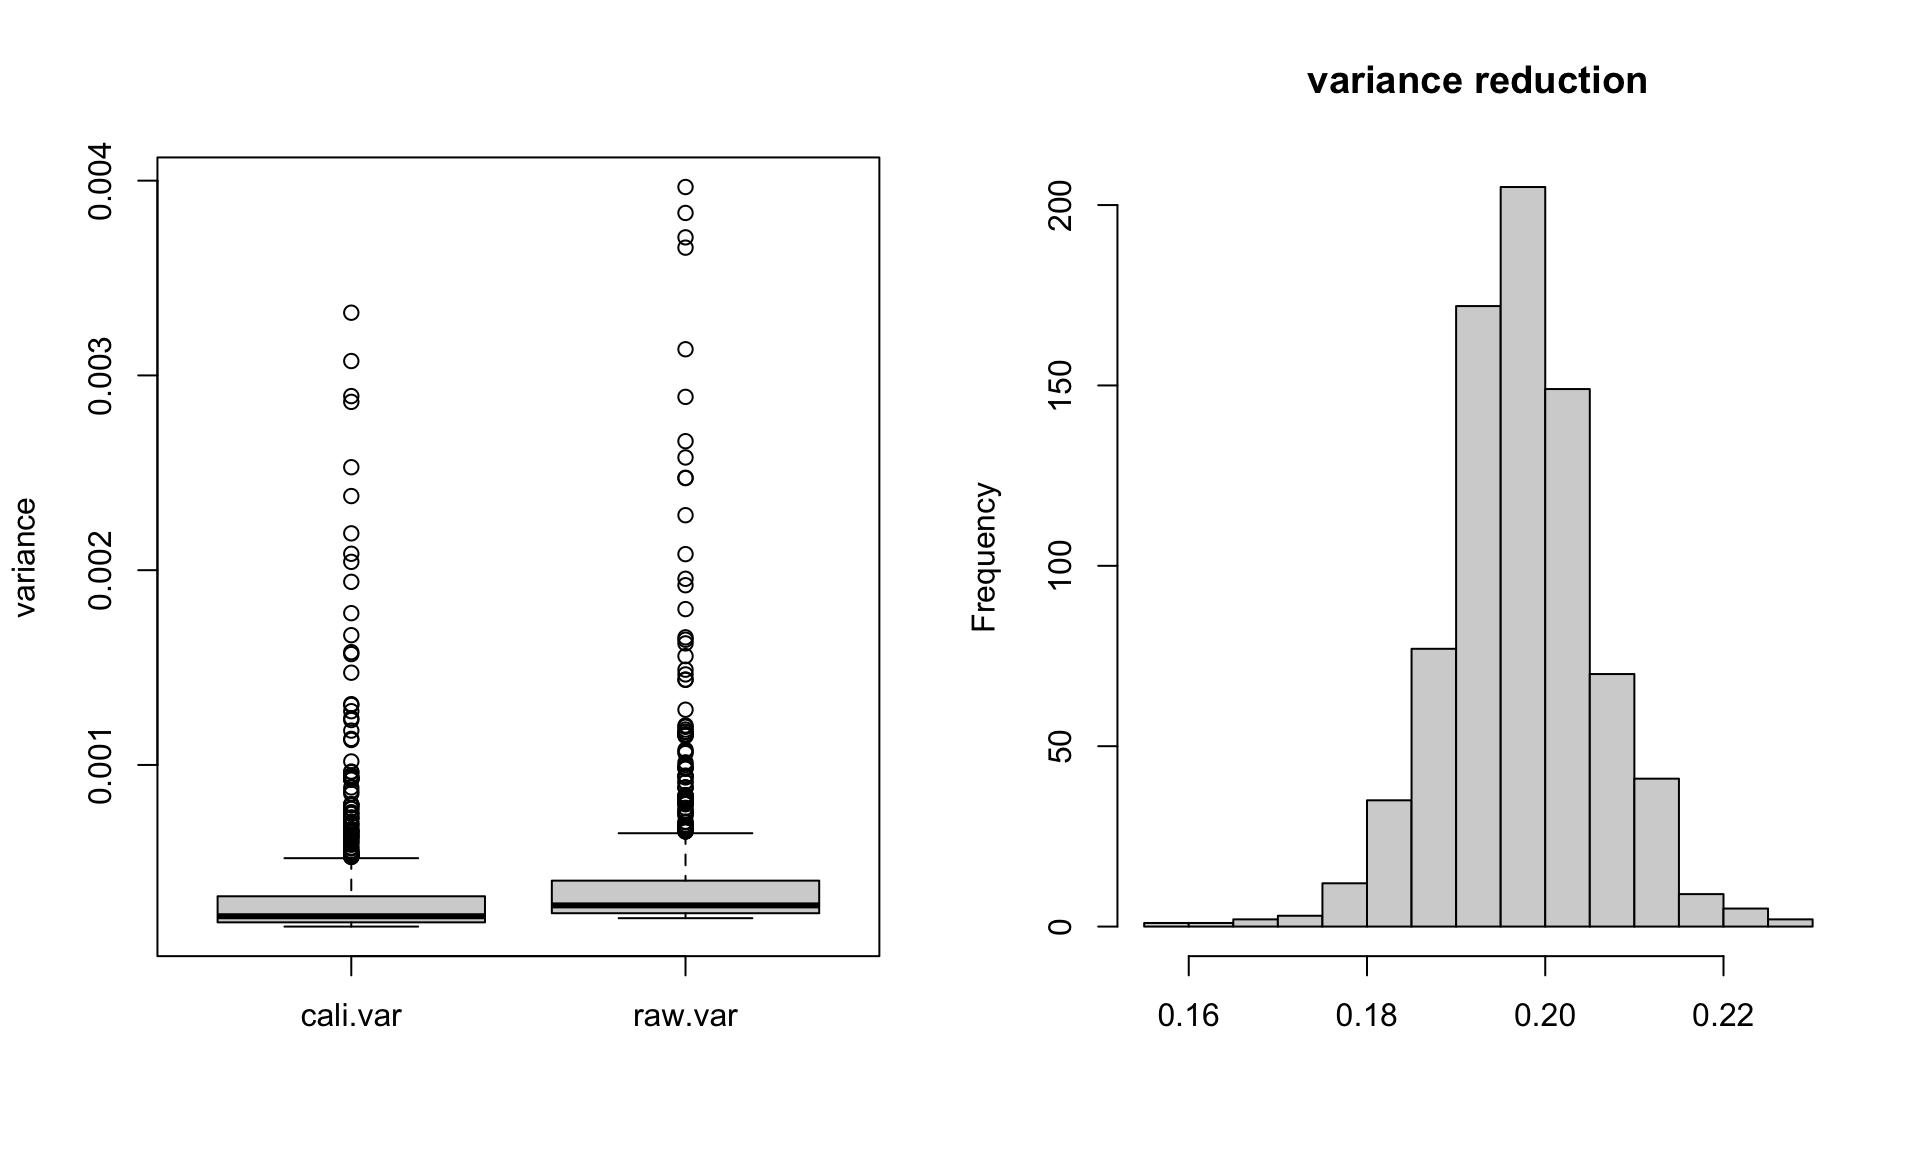
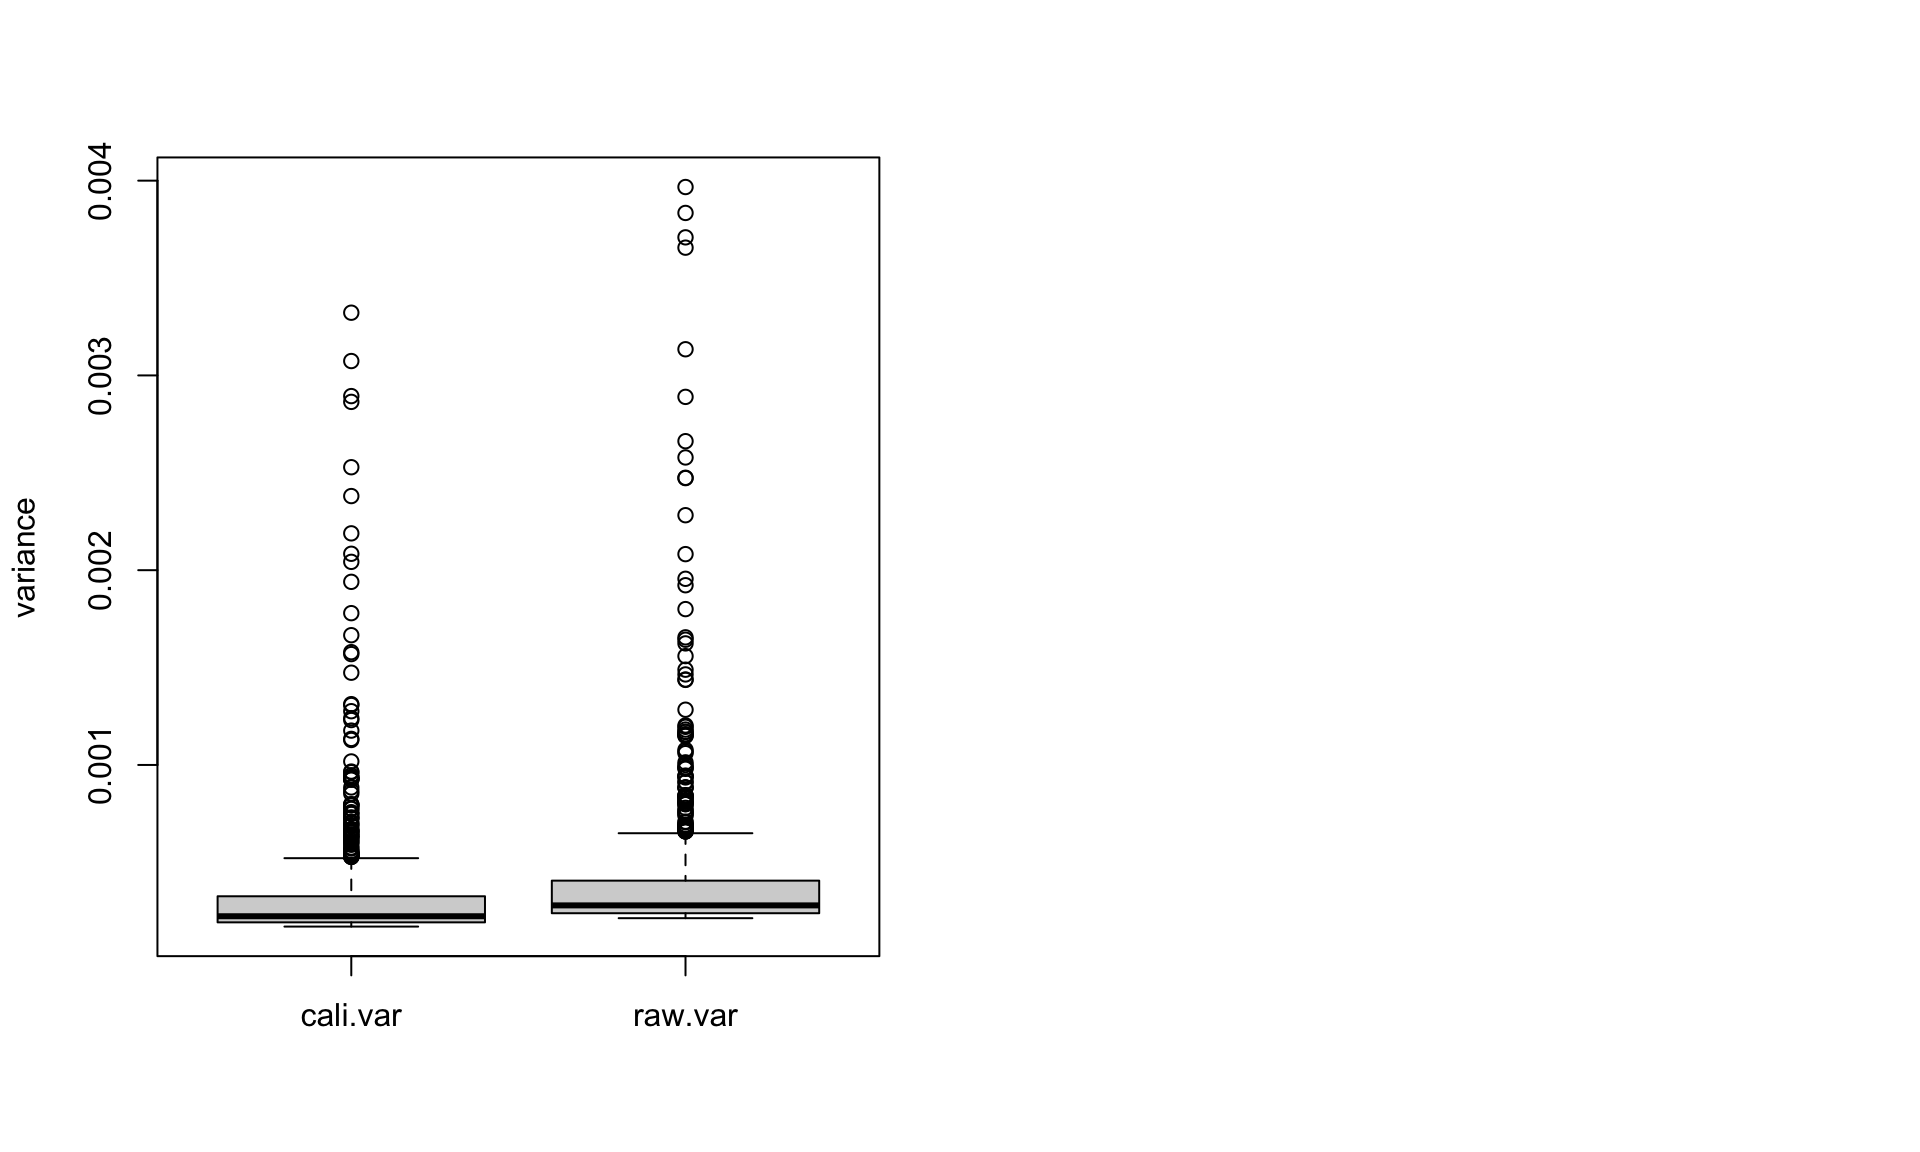
Build site.

diff --git a/docs/ukb_trait_calibration_sib.html b/docs/ukb_trait_calibration_sib.html
@@ -384,7 +384,7 @@ div.tocify {
 <div class="tab-content">
 <div id="summary" class="tab-pane fade in active">
 <p>
-<strong>Last updated:</strong> 2024-05-12
+<strong>Last updated:</strong> 2024-05-13
 </p>
 <p>
 <strong>Checks:</strong> <span class="glyphicon glyphicon-ok text-success" aria-hidden="true"></span> 7 <span class="glyphicon glyphicon-exclamation-sign text-danger" aria-hidden="true"></span> 0
@@ -475,16 +475,16 @@ This reproducible <a href="http://rmarkdown.rstudio.com">R Markdown</a> analysis
 <div class="panel panel-default">
 <div class="panel-heading">
 <p class="panel-title">
-<a data-toggle="collapse" data-parent="#workflowr-checks" href="#strongRepositoryversionstrongahrefhttpsgithubcomyunqiyang0215simulationcalibratedmrtree2a7061470f6a00c66abf73353441e1e2340f4411targetblank2a70614a"> <span class="glyphicon glyphicon-ok text-success" aria-hidden="true"></span> <strong>Repository version:</strong> <a href="https://github.com/yunqiyang0215/simulation-calibrated-mr/tree/2a7061470f6a00c66abf73353441e1e2340f4411" target="_blank">2a70614</a> </a>
+<a data-toggle="collapse" data-parent="#workflowr-checks" href="#strongRepositoryversionstrongahrefhttpsgithubcomyunqiyang0215simulationcalibratedmrtree8581ebae091ebfb218a159ac72eaa2dbd3bc3c6atargetblank8581ebaa"> <span class="glyphicon glyphicon-ok text-success" aria-hidden="true"></span> <strong>Repository version:</strong> <a href="https://github.com/yunqiyang0215/simulation-calibrated-mr/tree/8581ebae091ebfb218a159ac72eaa2dbd3bc3c6a" target="_blank">8581eba</a> </a>
 </p>
 </div>
[2 lines of base64/hex data omitted]
 <div class="panel-body">
 <p>
 Great! You are using Git for version control. Tracking code development and connecting the code version to the results is critical for reproducibility.
 </p>
 <p>
-The results in this page were generated with repository version <a href="https://github.com/yunqiyang0215/simulation-calibrated-mr/tree/2a7061470f6a00c66abf73353441e1e2340f4411" target="_blank">2a70614</a>. See the <em>Past versions</em> tab to see a history of the changes made to the R Markdown and HTML files.
+The results in this page were generated with repository version <a href="https://github.com/yunqiyang0215/simulation-calibrated-mr/tree/8581ebae091ebfb218a159ac72eaa2dbd3bc3c6a" target="_blank">8581eba</a>. See the <em>Past versions</em> tab to see a history of the changes made to the R Markdown and HTML files.
 </p>
 <p>
 Note that you need to be careful to ensure that all relevant files for the analysis have been committed to Git prior to generating the results (you can use <code>wflow_publish</code> or <code>wflow_git_commit</code>). workflowr only checks the R Markdown file, but you know if there are other scripts or data files that it depends on. Below is the status of the Git repository when the results were generated:
@@ -538,6 +538,40 @@ Message
 </tr>
 </thead>
 <tbody>
+<tr>
+<td>
+Rmd
+</td>
+<td>
+<a href="https://github.com/yunqiyang0215/simulation-calibrated-mr/blob/8581ebae091ebfb218a159ac72eaa2dbd3bc3c6a/analysis/ukb_trait_calibration_sib.Rmd" target="_blank">8581eba</a>
+</td>
+<td>
+yunqiyang0215
+</td>
+<td>
+2024-05-13
+</td>
+<td>
+wflow_publish("analysis/ukb_trait_calibration_sib.Rmd")
+</td>
+</tr>
+<tr>
+<td>
+html
+</td>
+<td>
+<a href="https://rawcdn.githack.com/yunqiyang0215/simulation-calibrated-mr/74f43038d502e928f3ff52fc114d2c3f77a3dc00/docs/ukb_trait_calibration_sib.html" target="_blank">74f4303</a>
+</td>
+<td>
+yunqiyang0215
+</td>
+<td>
+2024-05-12
+</td>
+<td>
+Build site.
+</td>
+</tr>
 <tr>
 <td>
 Rmd
@@ -640,6 +674,17 @@ Date
 <tbody>
 <tr>
 <td>
+<a href="https://github.com/yunqiyang0215/simulation-calibrated-mr/blob/74f43038d502e928f3ff52fc114d2c3f77a3dc00/docs/figure/ukb_trait_calibration_sib.Rmd/unnamed-chunk-3-1.png" target="_blank">74f4303</a>
+</td>
+<td>
+yunqiyang0215
+</td>
+<td>
+2024-05-12
+</td>
+</tr>
+<tr>
+<td>
 <a href="https://github.com/yunqiyang0215/simulation-calibrated-mr/blob/3443aedf481ba00a06c87fa4deeacce82b7f12f0/docs/figure/ukb_trait_calibration_sib.Rmd/unnamed-chunk-3-1.png" target="_blank">3443aed</a>
 </td>
 <td>
@@ -667,8 +712,48 @@ sum(pval.ext &lt; 1e-8)</code></pre>
 <h4>Calibration result</h4>
 <pre class="r"><code>par(mfrow = c(1, 2))
 boxplot(dat[, c(&quot;cali.var&quot;, &quot;raw.var&quot;)], ylab = &quot;variance&quot;)
-hist((dat$raw.var - dat$cali.var)/dat$raw.var, main = &quot;variance reduction&quot;, xlab = &quot;&quot;)</code></pre>
+vr = (dat$raw.var - dat$cali.var)/dat$raw.var
+mean(vr)</code></pre>
+<pre><code>[1] 0.1572405</code></pre>
+<pre class="r"><code>hist(vr, main = &quot;variance reduction&quot;, xlab = &quot;&quot;)</code></pre>
 <p><img src="figure/ukb_trait_calibration_sib.Rmd/unnamed-chunk-5-1.png" width="960" style="display: block; margin: auto;" /></p>
+<p>
+<button type="button" class="btn btn-default btn-xs btn-workflowr btn-workflowr-fig" data-toggle="collapse" data-target="#fig-unnamed-chunk-5-1">
+Past versions of unnamed-chunk-5-1.png
+</button>
+</p>
+<div id="fig-unnamed-chunk-5-1" class="collapse">
+<div class="table-responsive">
+<table class="table table-condensed table-hover">
+<thead>
+<tr>
+<th>
+Version
+</th>
+<th>
+Author
+</th>
+<th>
+Date
+</th>
+</tr>
+</thead>
+<tbody>
+<tr>
+<td>
+<a href="https://github.com/yunqiyang0215/simulation-calibrated-mr/blob/74f43038d502e928f3ff52fc114d2c3f77a3dc00/docs/figure/ukb_trait_calibration_sib.Rmd/unnamed-chunk-5-1.png" target="_blank">74f4303</a>
+</td>
+<td>
+yunqiyang0215
+</td>
+<td>
+2024-05-12
+</td>
+</tr>
+</tbody>
+</table>
+</div>
+</div>
 </div>
 </div>
 <div id="dbp" class="section level3">
@@ -691,6 +776,43 @@ abline(a = 0, b = 1, col = &quot;red&quot;)
 hist(dat$cali - dat$raw, main = &quot;Differece: calibrated estimator - uncalibrated estimator&quot;, xlab = &quot;&quot;)
 hist(dat$int - dat$BETA, main = &quot;Difference: internal gwas - external gwas&quot;, xlab = &quot;&quot;)</code></pre>
 <p><img src="figure/ukb_trait_calibration_sib.Rmd/unnamed-chunk-8-1.png" width="768" style="display: block; margin: auto;" /></p>
+<p>
+<button type="button" class="btn btn-default btn-xs btn-workflowr btn-workflowr-fig" data-toggle="collapse" data-target="#fig-unnamed-chunk-8-1">
+Past versions of unnamed-chunk-8-1.png
+</button>
+</p>
+<div id="fig-unnamed-chunk-8-1" class="collapse">
+<div class="table-responsive">
+<table class="table table-condensed table-hover">
+<thead>
+<tr>
+<th>
+Version
+</th>
+<th>
+Author
+</th>
+<th>
+Date
+</th>
+</tr>
+</thead>
+<tbody>
+<tr>
+<td>
+<a href="https://github.com/yunqiyang0215/simulation-calibrated-mr/blob/74f43038d502e928f3ff52fc114d2c3f77a3dc00/docs/figure/ukb_trait_calibration_sib.Rmd/unnamed-chunk-8-1.png" target="_blank">74f4303</a>
+</td>
+<td>
+yunqiyang0215
+</td>
+<td>
+2024-05-12
+</td>
+</tr>
+</tbody>
+</table>
+</div>
+</div>
 <pre class="r"><code>cor(dat$cali, dat$raw)</code></pre>
 <pre><code>[1] 0.8713467</code></pre>
 <pre class="r"><code>cor(dat$BETA, dat$int)</code></pre>
@@ -709,7 +831,9 @@ sum(pval.ext &lt; 1e-8)</code></pre>
 <h4>Calibration result</h4>
 <pre class="r"><code>par(mfrow = c(1, 2))
 boxplot(dat[, c(&quot;cali.var&quot;, &quot;raw.var&quot;)], ylab = &quot;variance&quot;)
-hist((dat$raw.var - dat$cali.var)/dat$raw.var, main = &quot;variance reduction&quot;, xlab = &quot;&quot;)</code></pre>
+vr = (dat$raw.var - dat$cali.var)/dat$raw.var
+mean(vr)</code></pre>
+<pre><code>[1] 0.1973165</code></pre>
 <p><img src="figure/ukb_trait_calibration_sib.Rmd/unnamed-chunk-10-1.png" width="960" style="display: block; margin: auto;" /></p>
 <p>
 <button type="button" class="btn btn-default btn-xs btn-workflowr btn-workflowr-fig" data-toggle="collapse" data-target="#fig-unnamed-chunk-10-1">
@@ -733,6 +857,17 @@ Date
 </tr>
 </thead>
 <tbody>
+<tr>
+<td>
+<a href="https://github.com/yunqiyang0215/simulation-calibrated-mr/blob/74f43038d502e928f3ff52fc114d2c3f77a3dc00/docs/figure/ukb_trait_calibration_sib.Rmd/unnamed-chunk-10-1.png" target="_blank">74f4303</a>
+</td>
+<td>
+yunqiyang0215
+</td>
+<td>
+2024-05-12
+</td>
+</tr>
 <tr>
 <td>
 <a href="https://github.com/yunqiyang0215/simulation-calibrated-mr/blob/3443aedf481ba00a06c87fa4deeacce82b7f12f0/docs/figure/ukb_trait_calibration_sib.Rmd/unnamed-chunk-10-1.png" target="_blank">3443aed</a>
@@ -770,6 +905,43 @@ abline(a = 0, b = 1, col = &quot;red&quot;)
 hist(dat$cali - dat$raw, main = &quot;Differece: calibrated estimator - uncalibrated estimator&quot;, xlab = &quot;&quot;)
 hist(dat$int - dat$BETA, main = &quot;Difference: internal gwas - external gwas&quot;, xlab = &quot;&quot;)</code></pre>
 <p><img src="figure/ukb_trait_calibration_sib.Rmd/unnamed-chunk-13-1.png" width="768" style="display: block; margin: auto;" /></p>
+<p>
+<button type="button" class="btn btn-default btn-xs btn-workflowr btn-workflowr-fig" data-toggle="collapse" data-target="#fig-unnamed-chunk-13-1">
+Past versions of unnamed-chunk-13-1.png
+</button>
+</p>
+<div id="fig-unnamed-chunk-13-1" class="collapse">
+<div class="table-responsive">
+<table class="table table-condensed table-hover">
+<thead>
+<tr>
+<th>
+Version
+</th>
+<th>
+Author
+</th>
+<th>
+Date
+</th>
+</tr>
+</thead>
+<tbody>
+<tr>
+<td>
+<a href="https://github.com/yunqiyang0215/simulation-calibrated-mr/blob/74f43038d502e928f3ff52fc114d2c3f77a3dc00/docs/figure/ukb_trait_calibration_sib.Rmd/unnamed-chunk-13-1.png" target="_blank">74f4303</a>
+</td>
+<td>
+yunqiyang0215
+</td>
+<td>
+2024-05-12
+</td>
+</tr>
+</tbody>
+</table>
+</div>
+</div>
 <pre class="r"><code>cor(dat$cali, dat$raw)</code></pre>
 <pre><code>[1] 0.8927765</code></pre>
 <pre class="r"><code>cor(dat$BETA, dat$int)</code></pre>
@@ -788,8 +960,47 @@ sum(pval.ext &lt; 1e-8)</code></pre>
 <h4>Calibration result</h4>
 <pre class="r"><code>par(mfrow = c(1, 2))
 boxplot(dat[, c(&quot;cali.var&quot;, &quot;raw.var&quot;)], ylab = &quot;variance&quot;)
-hist((dat$raw.var - dat$cali.var)/dat$raw.var, main = &quot;variance reduction&quot;, xlab = &quot;&quot;)</code></pre>
+vr = (dat$raw.var - dat$cali.var)/dat$raw.var
+mean(vr)</code></pre>
+<pre><code>[1] 0.1946911</code></pre>
 <p><img src="figure/ukb_trait_calibration_sib.Rmd/unnamed-chunk-15-1.png" width="960" style="display: block; margin: auto;" /></p>
+<p>
+<button type="button" class="btn btn-default btn-xs btn-workflowr btn-workflowr-fig" data-toggle="collapse" data-target="#fig-unnamed-chunk-15-1">
+Past versions of unnamed-chunk-15-1.png
+</button>
+</p>
+<div id="fig-unnamed-chunk-15-1" class="collapse">
+<div class="table-responsive">
+<table class="table table-condensed table-hover">
+<thead>
+<tr>
+<th>
+Version
+</th>
+<th>
+Author
+</th>
+<th>
+Date
+</th>
+</tr>
+</thead>
+<tbody>
+<tr>
+<td>
+<a href="https://github.com/yunqiyang0215/simulation-calibrated-mr/blob/74f43038d502e928f3ff52fc114d2c3f77a3dc00/docs/figure/ukb_trait_calibration_sib.Rmd/unnamed-chunk-15-1.png" target="_blank">74f4303</a>
+</td>
+<td>
+yunqiyang0215
+</td>
+<td>
+2024-05-12
+</td>
+</tr>
+</tbody>
+</table>
+</div>
+</div>
 <br>
 <p>
 <button type="button" class="btn btn-default btn-workflowr btn-workflowr-sessioninfo" data-toggle="collapse" data-target="#workflowr-sessioninfo" style="display: block;">
